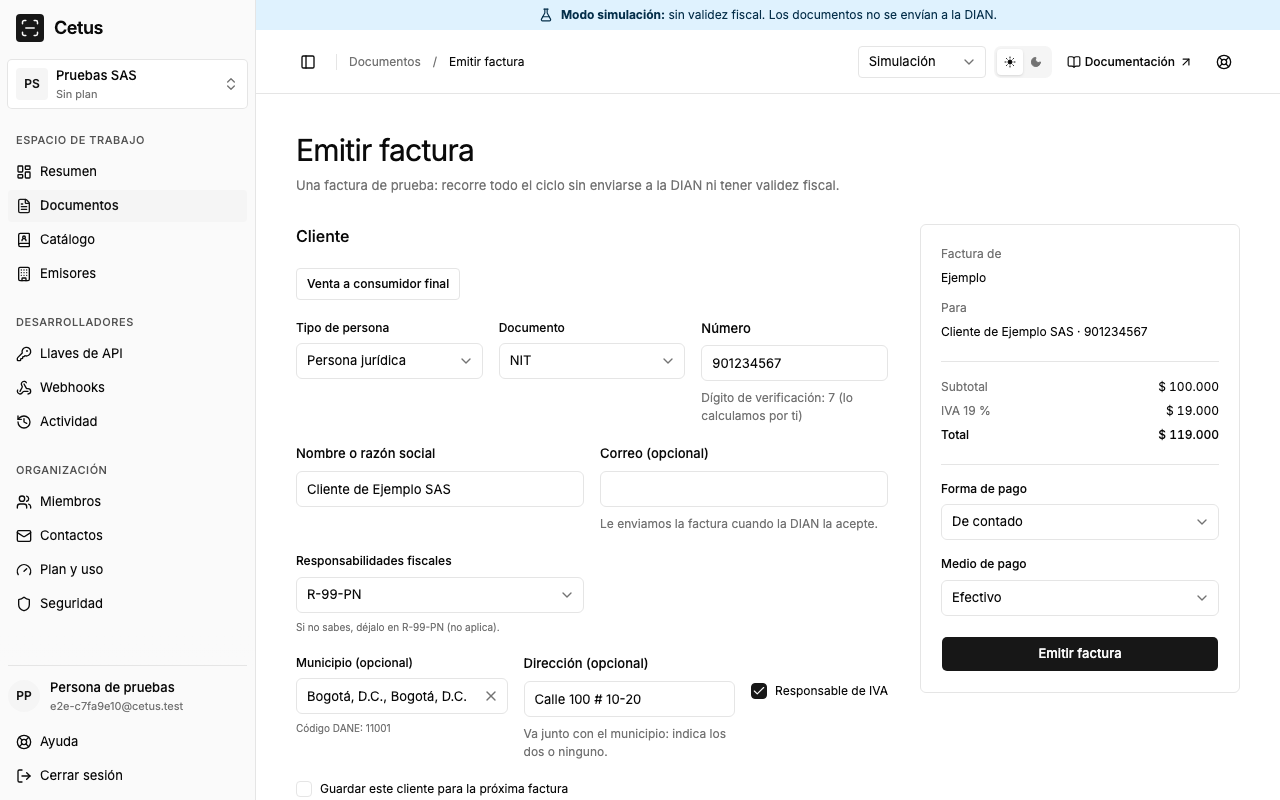
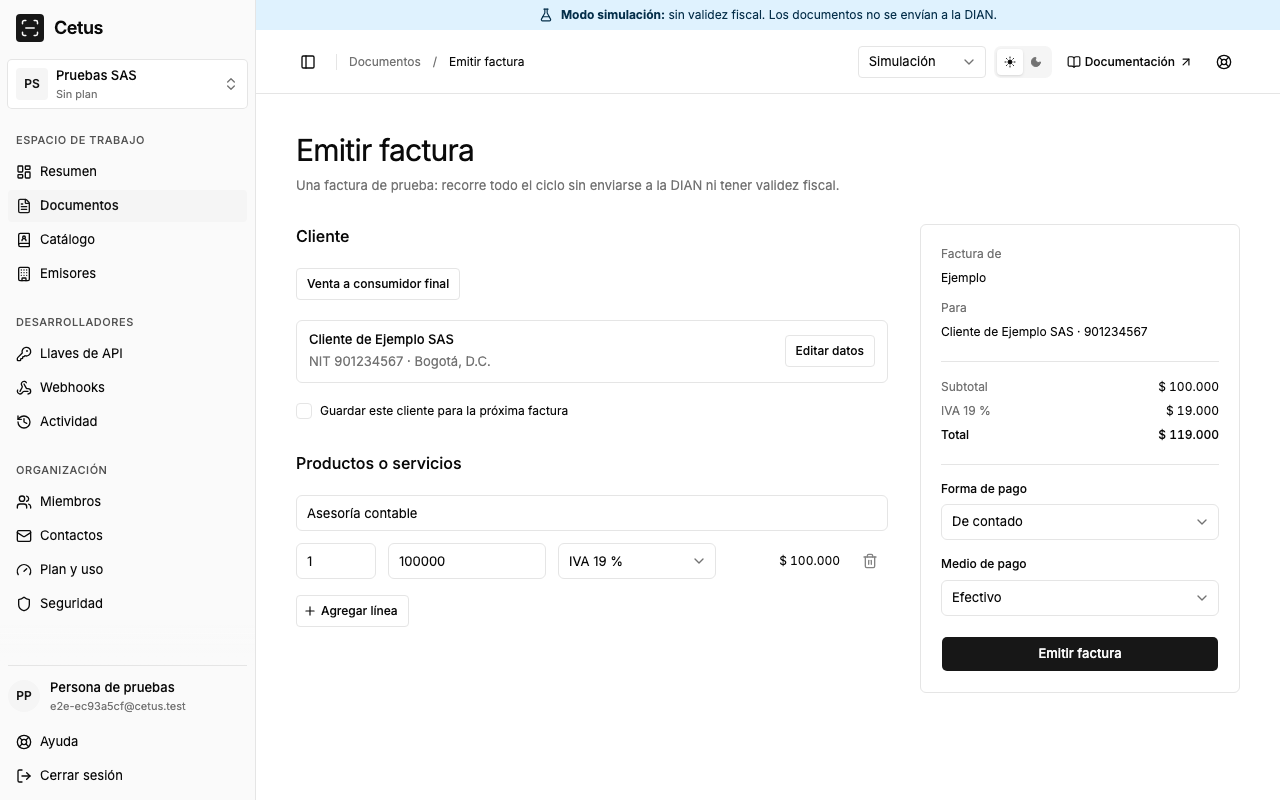
[console] Show the sandbox sample customer as a summary
The first sandbox invoice opens with its customer in one line, so the
whole invoice fits on screen. It can still be saved to the catalog from
there; "Editar datos" opens its fields.

diff --git a/apps/console/src/features/issuance/InvoiceForm.tsx b/apps/console/src/features/issuance/InvoiceForm.tsx
@@ -105,8 +105,11 @@ export function InvoiceForm({
   const [confirmation, setConfirmation] = useState<Confirmation | null>(null);
   const [saveCustomer, setSaveCustomer] = useState(false);
   const [picked, setPicked] = useState<PickedCustomer | null>(null);
-  // A customer from the catalog, or the final consumer, shows in one line until edited.
-  const [customerMode, setCustomerMode] = useState<"fields" | "summary">("fields");
+  // A customer from the catalog, the final consumer or the sample shows in one line until edited; only the
+  // sample, typed by no one, can still be saved from there.
+  const [customerMode, setCustomerMode] = useState<"fields" | "summary" | "sample">(
+    sample ? "sample" : "fields",
+  );
   const customerSearch = useCustomerSearch(environment);
   const header = useForm<InvoiceHeaderValues>({
     resolver: arktypeResolver(invoiceHeaderSchema),
@@ -299,28 +302,28 @@ export function InvoiceForm({
               Venta a consumidor final
             </Button>
           </div>
-          {customerMode === "summary" ? (
+          {customerMode === "fields" ? (
+            <CustomerFields
+              form={customerForm}
+              emailHint="Le enviamos la factura cuando la DIAN la acepte."
+            />
+          ) : (
             <CustomerSummary
               customer={customerForm.getValues()}
               onEdit={() => setCustomerMode("fields")}
             />
-          ) : (
-            <>
-              <CustomerFields
-                form={customerForm}
-                emailHint="Le enviamos la factura cuando la DIAN la acepte."
+          )}
+          {customerMode !== "summary" && (
+            <Field orientation="horizontal">
+              <Checkbox
+                id="save-customer"
+                checked={saveCustomer}
+                onCheckedChange={(checked) => setSaveCustomer(checked)}
               />
-              <Field orientation="horizontal">
-                <Checkbox
-                  id="save-customer"
-                  checked={saveCustomer}
-                  onCheckedChange={(checked) => setSaveCustomer(checked)}
-                />
-                <FieldLabel htmlFor="save-customer" size="xs" className="font-normal">
-                  Guardar este cliente para la próxima factura
-                </FieldLabel>
-              </Field>
-            </>
+              <FieldLabel htmlFor="save-customer" size="xs" className="font-normal">
+                Guardar este cliente para la próxima factura
+              </FieldLabel>
+            </Field>
           )}
         </FieldSection>
 

diff --git a/apps/console/tests/e2e/issuance.spec.ts b/apps/console/tests/e2e/issuance.spec.ts
@@ -166,6 +166,7 @@ test("an accepted invoice is emailed again at most once a minute", async ({
 test("the customer's location is optional as a whole", async ({ page, organization: _ }) => {
   // The first sandbox invoice comes with Bogotá and an address.
   await open(page, "/documents/new");
+  await page.getByRole("button", { name: "Editar datos" }).click();
   await page.getByLabel("Dirección (opcional)").fill("");
   await page.getByRole("button", { name: "Emitir factura" }).click();
   await expect(

diff --git a/apps/console/src/features/issuance/CustomerSummary.tsx b/apps/console/src/features/issuance/CustomerSummary.tsx
@@ -4,7 +4,7 @@ import { Item, ItemActions, ItemContent, ItemDescription, ItemTitle } from "~/co
 import { identificationTypes } from "./catalogs";
 import type { CustomerValues } from "./schema";
 
-/** The customer in one line, for one picked from the catalog or the final consumer. */
+/** The customer in one line, for one picked from the catalog, the final consumer or the sample. */
 export function CustomerSummary({
   customer,
   onEdit,
